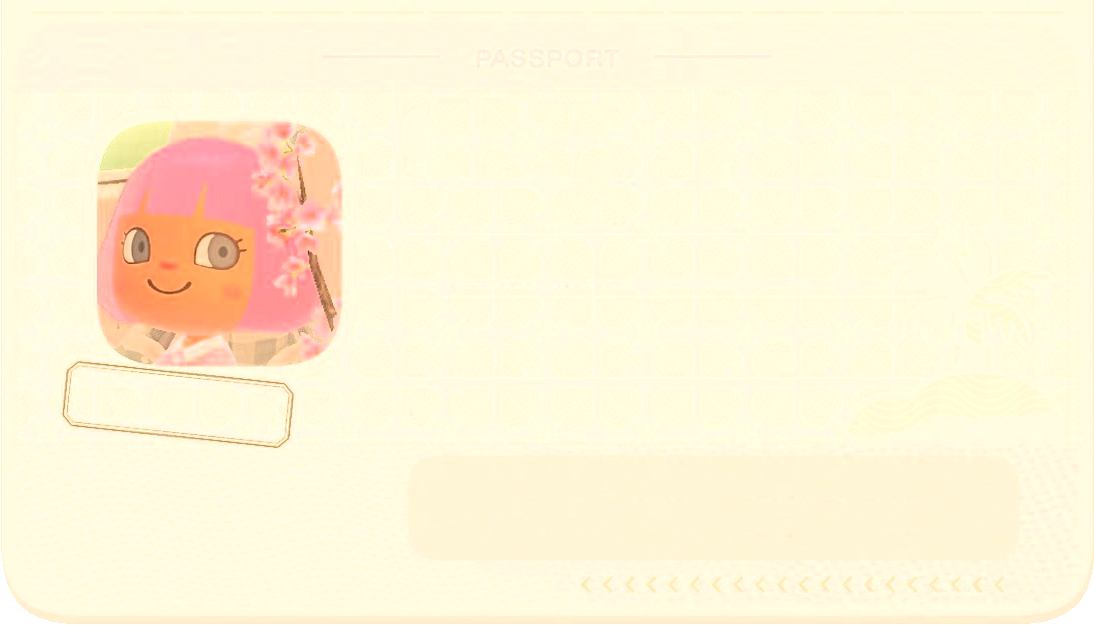
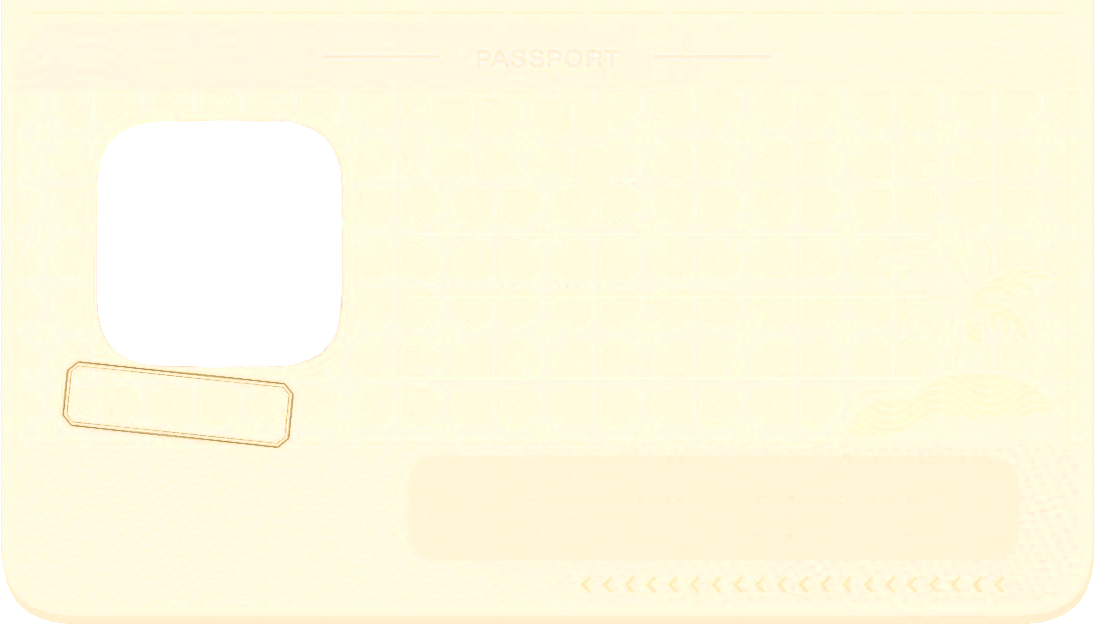
just playing with canvas

Changed region(s): [[0.0622, 0.1821, 0.3108, 0.607]]

diff --git a/src/passport/passport.js b/src/passport/passport.js
@@ -34,13 +34,8 @@ module.exports.Passport = class Passport {
   }
 
   async icon() {
-    const iconBoundary = await this.Canvas.loadImage('./src/passport/avvy.png');
-    this.ctx.drawImage(iconBoundary, this.coords.icon[0], this.coords.icon[1]);
-    this.ctx.save();
-    this.ctx.globalCompositeOperation = "source-atop";
     const icon = await this.Canvas.loadImage(this.info.icon);
     this.ctx.drawImage(icon, this.coords.icon[0], this.coords.icon[1], 245, 245);
-    this.ctx.restore();
   }
 
   async text(name) {
